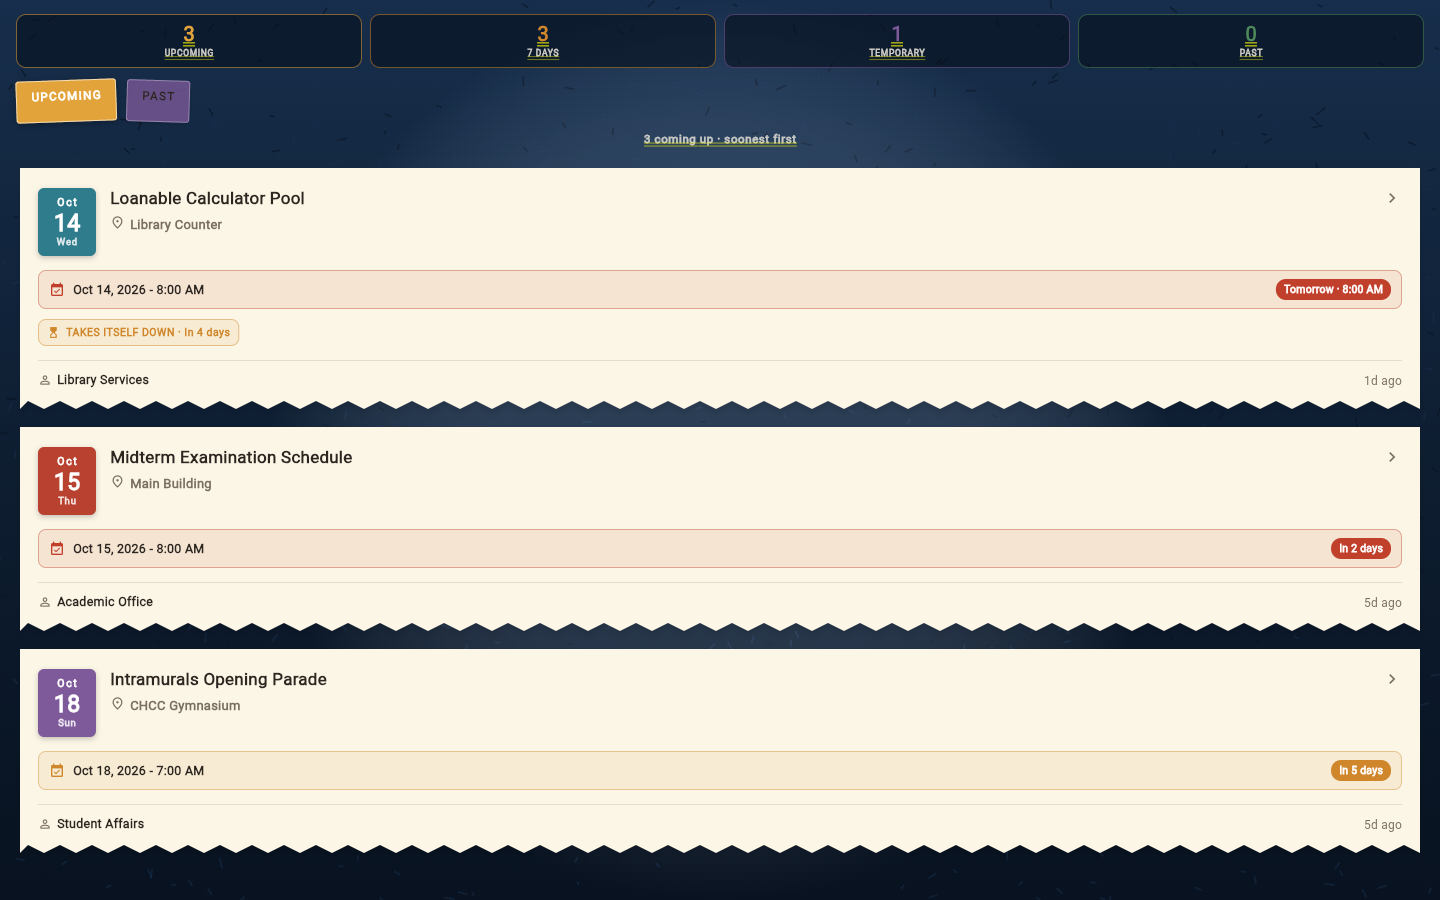
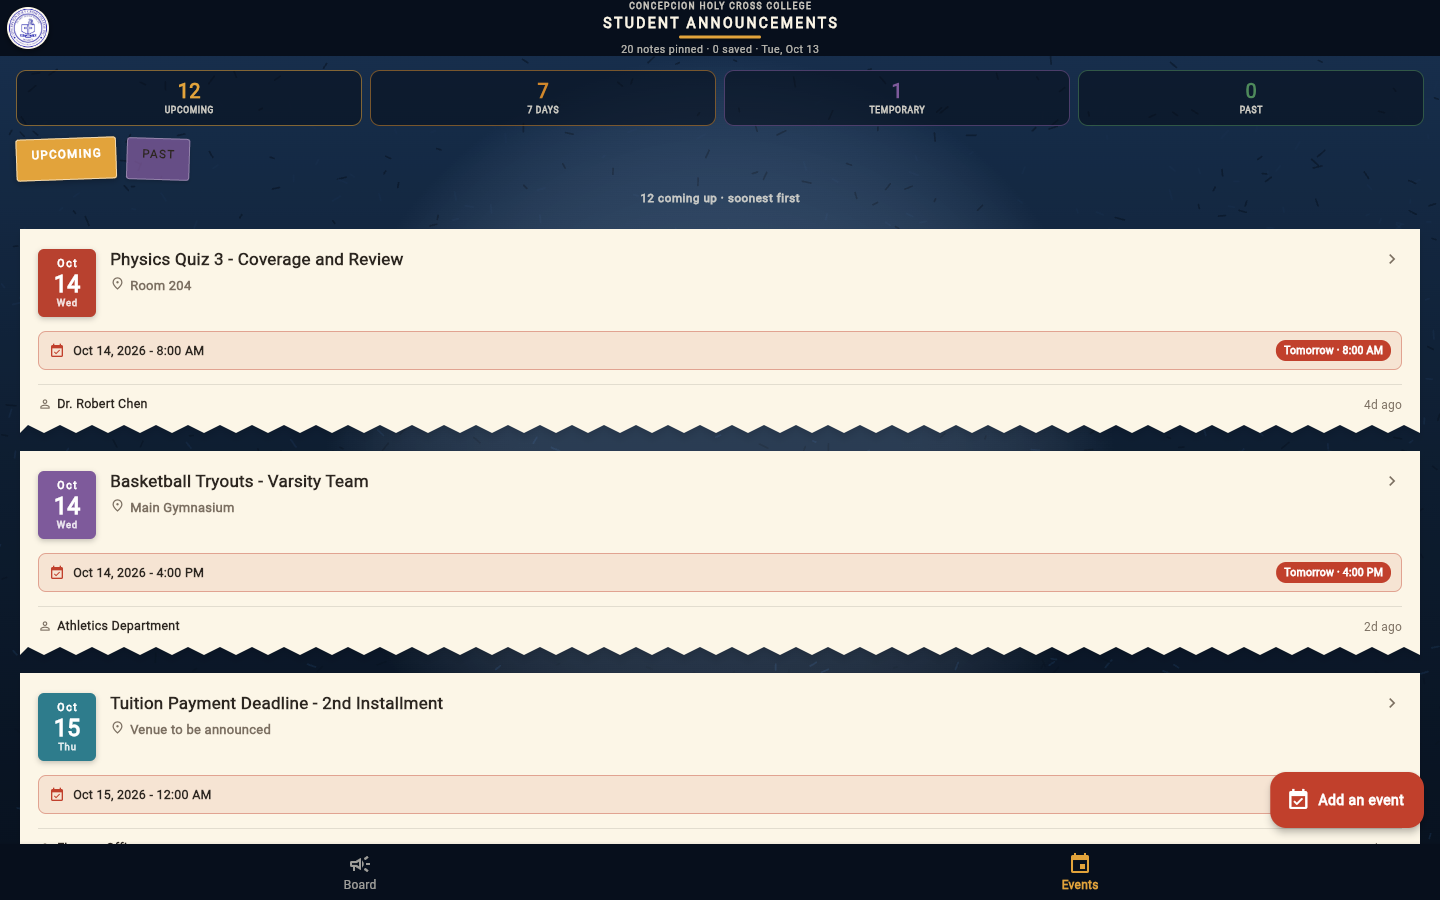
Add a short documentation with fresh screenshots
- Events page gets a summary strip (Upcoming, 7 Days, Temporary, Past) so the tab doubles as the summary/result screen
- ?screen=events now opens the real diary (app bar, bottom navigation) instead of a bare list
- The demo note on ?screen=detail shows the venue row and the take-it-down pill
- New captures: home, form, details, summary, and a desktop + narrow responsive figure
- docs/Short_Documentation.md: title, description, features, screenshots, member roles
- Regenerated the events golden and dropped the stray flutter_01.png

16 tests still pass, flutter analyze clean.

Changed region(s): [[0.0, 0.0, 1.0, 0.9956], [0.875, 0.3111, 0.9688, 0.3422]]

diff --git a/lib/main.dart b/lib/main.dart
@@ -9,11 +9,14 @@ void main() {
   runApp(StudentAnnouncementsApp(home: initialScreen()));
 }
 
-/// Deep links for the web build — `?screen=detail` or `?screen=compose` open
-/// that screen directly, which is handy for sharing a link to a note and for
-/// grabbing screenshots of each screen.
+/// Deep links for the web build — `?screen=board`, `?screen=events`,
+/// `?screen=detail` or `?screen=compose` open that screen directly, which is
+/// handy for sharing a link and for grabbing screenshots of each screen.
 Widget? initialScreen() {
   switch (Uri.base.queryParameters['screen']) {
+    case 'events':
+      // The diary itself — app bar, summary strip and bottom navigation.
+      return const HomeScreen(initialTab: 1);
     case 'detail':
       return AnnouncementDetailScreen(
         announcement: Announcement(
@@ -26,6 +29,8 @@ Widget? initialScreen() {
           postedBy: 'Academic Office',
           isUrgent: true,
           eventDate: DateTime(2026, 10, 15, 8, 0),
+          venue: 'Exam Hall, Main Building',
+          expiresAt: DateTime(2026, 10, 16, 8, 0),
         ),
         onChanged: (_) {},
         onDeleted: () {},
@@ -753,7 +758,11 @@ class ExpiryPill extends StatelessWidget {
 // ==================== HOME SCREEN ====================
 
 class HomeScreen extends StatefulWidget {
-  const HomeScreen({super.key});
+  const HomeScreen({super.key, this.initialTab = 0});
+
+  /// Which bottom tab to open on — `?screen=events` jumps straight to the
+  /// diary (handy for sharing a link and for screenshots).
+  final int initialTab;
 
   @override
   State<HomeScreen> createState() => _HomeScreenState();
@@ -763,6 +772,7 @@ class _HomeScreenState extends State<HomeScreen> {
   @override
   void initState() {
     super.initState();
+    _tab = widget.initialTab;
     _loadNotes();
   }
 
@@ -1903,6 +1913,19 @@ class _EventsScreenState extends State<EventsScreen> {
   @override
   Widget build(BuildContext context) {
     final events = _events;
+    final now = DateTime.now();
+    final week = now.add(const Duration(days: 7));
+    final dated = widget.announcements
+        .where((a) => a.eventDate != null && !a.isExpired());
+
+    final upcoming = dated.where((a) => a.eventDate!.isAfter(now)).length;
+    final soon = dated
+        .where((a) => a.eventDate!.isAfter(now) && !a.eventDate!.isAfter(week))
+        .length;
+    final temporary = widget.announcements
+        .where((a) => a.isTemporary && !a.isExpired())
+        .length;
+    final past = dated.where((a) => a.eventDate!.isBefore(now)).length;
 
     return Stack(
       children: [
@@ -1911,6 +1934,45 @@ class _EventsScreenState extends State<EventsScreen> {
         ),
         Column(
           children: [
+            // At-a-glance summary of the whole diary.
+            Padding(
+              padding: const EdgeInsets.fromLTRB(16, 14, 16, 4),
+              child: Row(
+                children: [
+                  Expanded(
+                    child: _StatBox(
+                      label: 'UPCOMING',
+                      value: upcoming,
+                      color: Palette.gold,
+                    ),
+                  ),
+                  const SizedBox(width: 8),
+                  Expanded(
+                    child: _StatBox(
+                      label: '7 DAYS',
+                      value: soon,
+                      color: const Color(0xFFD0872B),
+                    ),
+                  ),
+                  const SizedBox(width: 8),
+                  Expanded(
+                    child: _StatBox(
+                      label: 'TEMPORARY',
+                      value: temporary,
+                      color: const Color(0xFF7E5A9B),
+                    ),
+                  ),
+                  const SizedBox(width: 8),
+                  Expanded(
+                    child: _StatBox(
+                      label: 'PAST',
+                      value: past,
+                      color: const Color(0xFF4E8A5B),
+                    ),
+                  ),
+                ],
+              ),
+            ),
             // Tape tabs, same cut as the board's category tabs.
             SizedBox(
               height: 58,
@@ -1980,6 +2042,56 @@ class _EventsScreenState extends State<EventsScreen> {
           ],
         ),
       ],
+    );
+  }
+}
+
+/// One number on the diary's at-a-glance summary strip.
+class _StatBox extends StatelessWidget {
+  const _StatBox({
+    required this.label,
+    required this.value,
+    required this.color,
+  });
+
+  final String label;
+  final int value;
+  final Color color;
+
+  @override
+  Widget build(BuildContext context) {
+    return Container(
+      padding: const EdgeInsets.symmetric(horizontal: 4, vertical: 9),
+      decoration: BoxDecoration(
+        color: Palette.walnut.withValues(alpha: 0.6),
+        borderRadius: BorderRadius.circular(10),
+        border: Border.all(color: color.withValues(alpha: 0.55)),
+      ),
+      child: Column(
+        children: [
+          Text(
+            '$value',
+            style: TextStyle(
+              fontSize: 20,
+              height: 1.1,
+              fontWeight: FontWeight.w900,
+              color: color,
+            ),
+          ),
+          const SizedBox(height: 2),
+          Text(
+            label,
+            maxLines: 1,
+            overflow: TextOverflow.clip,
+            style: TextStyle(
+              fontSize: 8.5,
+              fontWeight: FontWeight.w800,
+              letterSpacing: 0.7,
+              color: Palette.paper.withValues(alpha: 0.8),
+            ),
+          ),
+        ],
+      ),
     );
   }
 }

diff --git a/test/widget_test.dart b/test/widget_test.dart
@@ -176,8 +176,11 @@ void main() {
     await tester.tap(find.text('Events'));
     await tester.pumpAndSettle();
 
-    expect(find.text('UPCOMING'), findsOneWidget);
-    expect(find.text('PAST'), findsOneWidget);
+    expect(find.byKey(const ValueKey('events-upcoming')), findsOneWidget);
+    expect(find.byKey(const ValueKey('events-past')), findsOneWidget);
+    // The summary strip counts what is on the diary.
+    expect(find.text('UPCOMING'), findsWidgets);
+    expect(find.text('TEMPORARY'), findsWidgets);
 
     await tester.scrollUntilVisible(
       find.text('Annual Science Fair 2026'),
@@ -237,7 +240,7 @@ void main() {
           eventDate: DateTime.now().add(const Duration(days: 3)),
           venue: 'Main Hall',
           expiresAt: expiresAt,
-      );
+        );
 
     await tester.pumpWidget(StudentAnnouncementsApp(
       home: EventsScreen(

diff --git a/docs/Short_Documentation.md b/docs/Short_Documentation.md
@@ -1,0 +1,171 @@
+# CHCC Student Announcements — Short Documentation
+
+---
+
+## 1. Project Title
+
+**CHCC Student Announcements: A Campus Bulletin Board and Events Application**
+
+| | |
+| --- | --- |
+| **Framework** | Flutter (Dart), Material Design 3 |
+| **App id / version** | `com.example.student_announcements` — 1.0.1+2 |
+| **Platforms** | Android, Web, Windows, macOS, Linux, iOS (one codebase) |
+| **Storage** | Local only (`shared_preferences` as JSON) — works fully offline |
+| **Sem & School Year** | 1st Sem, SY 2026–2027 |
+
+---
+
+## 2. Description
+
+CHCC Student Announcements is a Flutter application that acts as the digital
+campus bulletin board of Concepcion Holy Cross College, Inc. Instead of paper
+notices pinned to a cork board in the hallway, students and offices pin digital
+notes about events, exams, assignments and holidays, and read them anywhere
+from their phones.
+
+The look of the app is inspired by the real campus notice board at night:
+cream paper notes are pinned to a deep navy board, taped down with coloured
+washi tape, tilted at tiny hand-pinned angles, and stamped red when they are
+urgent. The official seal of Concepcion Holy Cross College, Inc. sits in the
+header beside the wordmark.
+
+Beyond the bulletin board, the app now carries a **campus events diary**: every
+dated note is collected on its own tab, sorted soonest-first, showing the date,
+the **venue**, a live countdown, and — for temporary notices — the moment the
+note will take itself down.
+
+---
+
+## 3. Features of the Application
+
+### 3.1 Main screens
+
+| Screen | What it does |
+| --- | --- |
+| **Board** (home) | CHCC crest and wordmark in the app bar, bunting strung underneath, filter tabs cut from tape, and a feed of paper notes that drop onto the board one after another. |
+| **Events / Summary** | The campus diary: an at-a-glance summary strip (Upcoming, Next 7 Days, Temporary, Past), an **Upcoming / Past** switch, and every dated note sorted soonest-first with a calendar chip, venue and countdown. |
+| **The note** (detail) | The full sheet on the navy board with a hand-drawn underline, venue and schedule rows, pin metadata, and a bottom bar for sharing or saving. |
+| **Pin a new note** (create) | A fresh sheet with category tape, validation, urgency stamp, **venue field**, date + time pickers, and the **take-it-down timer** for temporary notes. |
+
+Navigation between the Board and the Events page is a **bottom navigation
+bar**; the floating button matches the tab — *Pin a note* on the board,
+*Add an event* on the diary.
+
+### 3.2 Core functions
+
+- **Create** — the "Pin a note" button opens the form; title, details and who
+  posted it are required, while category, venue, urgent stamp, event date/time
+  and expiry are optional.
+- **Edit** — the pencil icon on the sheet reopens the form pre-filled; "Save
+  changes" keeps the original posted date and id.
+- **Delete** — swiping a note left (or the trash icon on the sheet) asks for
+  confirmation first, then shows **UNDO** in the snack bar.
+- **Search** — the magnifier drops down a search box that matches title,
+  details *and* who posted the note, on top of the category tabs.
+- **Saved notes** — the bookmark files a note into the student's pocket; the
+  bookmark in the app bar filters the board to saved notes only.
+- **Categories** — General, Event, Exam, Assignment and Holiday, each with its
+  own colour and icon; the tape tabs filter the board by category.
+- **Persistence** — the whole board is stored as JSON in `shared_preferences`,
+  so notes added, edited, saved or deleted today are still there tomorrow.
+
+### 3.3 Events, venues and temporary notes
+
+- **Events page** — a second tab that lists every note with a date, **soonest
+  first**, with an **Upcoming / Past** switch and an empty state.
+- **Summary strip** — four counters at the top of the page: **Upcoming**,
+  **7 Days**, **Temporary** and **Past**.
+- **Venue** — a field of its own (no longer buried in the description). It
+  appears under the title on the board, on every event card, and as a **VENUE**
+  row on the note sheet; an empty venue reads *"Venue to be announced"*.
+- **Countdown** — every dated note shows its exact date and time plus a pill
+  (`Today`, `Tomorrow`, `In 5 days`, `3 days ago`): red within 2 days, amber
+  within a week, green after that.
+- **Temporary notes** — a switch on the form ("Take it down automatically")
+  with the choices *After the event*, *In 24 hours*, *In 3 days*, *In 7 days*
+  and *In 30 days*, plus a live preview of the exact moment. Temporary notes
+  carry an amber **TAKES ITSELF DOWN** pill, and once the time passes they are
+  removed from the board, from the events page and from storage — no clutter.
+- **Web deep links** — `?screen=board`, `?screen=events`, `?screen=detail`
+  and `?screen=compose` open that screen directly, which is handy for sharing
+  a link and for taking screenshots.
+
+### 3.4 Testing and quality assurance
+
+`flutter test` runs **12 widget (smoke) tests** — rendering, filtering,
+search, compose, detail, delete-with-undo, saved notes, editing, the events
+tab with venues, soonest-first ordering, expiry of temporary notes, and
+pinning a temporary note with a venue — plus **4 golden snapshots**
+(`board`, `detail`, `compose`, `events`). Regenerate the snapshots after a
+design change with `flutter test --update-goldens`. `flutter analyze` reports
+no issues.
+
+---
+
+## 4. Screenshots
+
+### 4.1 Home screen
+
+![Home screen — the board](screenshots/home_screen.png)
+
+*Figure 1. Home screen (Board tab): category tape tabs, urgent stamp, venue
+under the title, date strip with countdown pill, and the Board / Events
+bottom navigation.*
+
+### 4.2 Form and details screens
+
+| Form (create / edit) | Details (the note) |
+| --- | --- |
+| ![Form screen](screenshots/form_screen.png) | ![Details screen](screenshots/details_screen.png) |
+
+*Figure 2. The "Pin a new note" form with the Venue field, date + time
+pickers, and the Temporary note switch (left); the note sheet with its
+HAPPENS ON schedule, urgent stamps, metadata and the share/save bar (right).*
+
+### 4.3 Summary / result screen
+
+![Summary screen](screenshots/summary_screen.png)
+
+*Figure 3. Events tab — the summary strip (Upcoming, 7 Days, Temporary,
+Past), the Upcoming / Past switch, and the diary sorted soonest-first with
+calendar chips, venues, countdowns and a "TAKES ITSELF DOWN" pill.*
+
+### 4.4 Responsive view
+
+![Responsive view — desktop and narrow widths](screenshots/responsive_view.png)
+
+*Figure 4. The same app at two widths — **1440 × 900** on the web / desktop
+(left) and a **500 px** narrow window (centre: board, right: events). The
+board reflows to a single column, the tape tabs scroll horizontally, the
+summary strip stays on one row, and the bottom navigation stays reachable.*
+
+The layout uses Flutter's responsive primitives (constraints, `Expanded`,
+`ListView`, `Wrap`), so one codebase serves phones, tablets, browsers and
+desktops. Standalone captures of the narrow layout are also in
+`screenshots/responsive_home_narrow.png` (board) and
+`screenshots/responsive_mobile.png` (events).
+
+---
+
+## 5. Member Roles
+
+This is a **group project** with two members:
+
+| Member | Role |
+| --- | --- |
+| **Princess Panganiban** | Project lead · UI/visual design (corkboard theme, screens, layout) · documentation and screenshots |
+| **Angelo Sese** | Application logic and data model (Announcement, JSON storage) · events, venue and temporary-note features · automated testing and build/deployment |
+
+*(Adjust the split above to match the work you actually divided.)*
+
+---
+
+## 6. How to Run
+
+```bash
+flutter pub get      # download dependencies
+flutter run          # run on any device, emulator or browser
+flutter test         # 12 widget tests + 4 golden snapshots
+flutter build apk --release   # Android installer
+```
